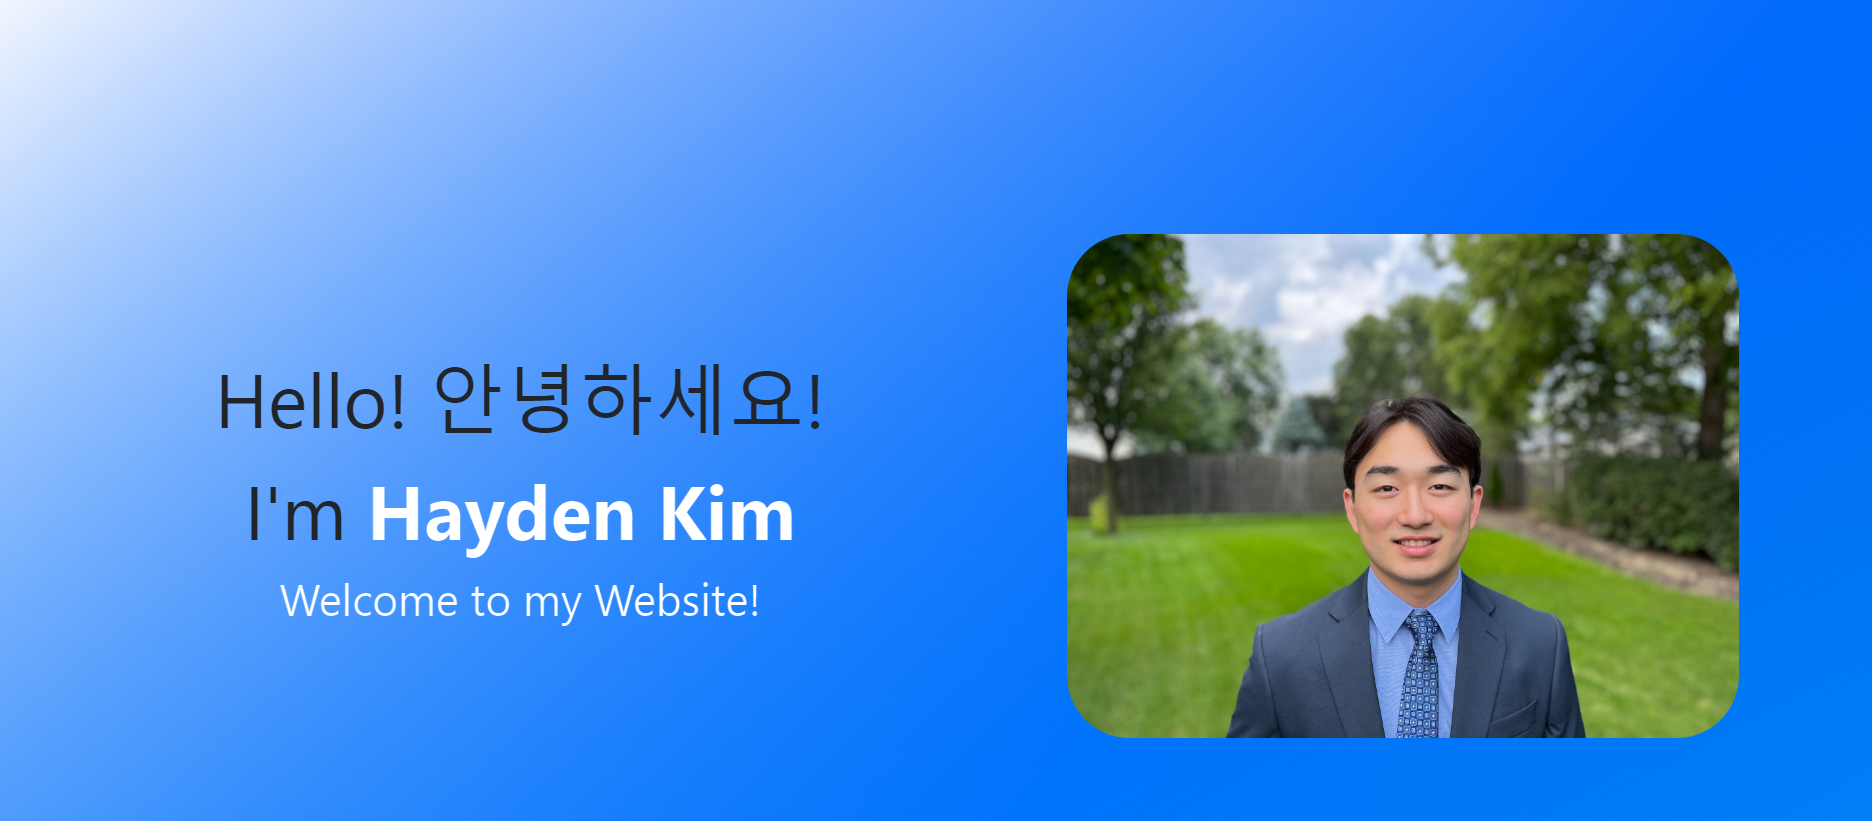
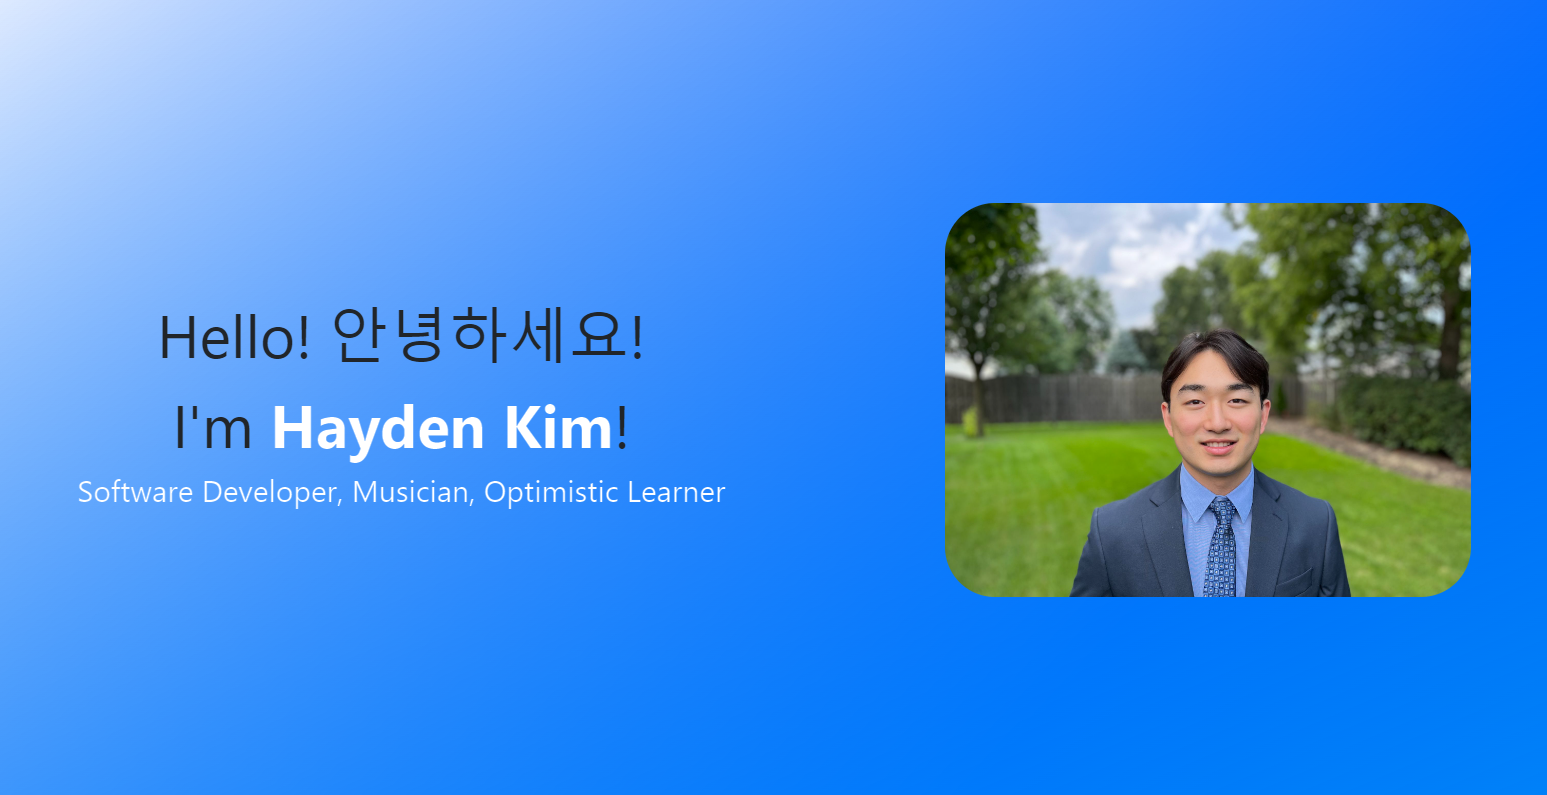
styling updates and summary changes

Changed region(s): [[0.5585, 0.2415, 0.9619, 0.9057], [0.031, 0.3925, 0.4654, 0.6943], [0.1551, 0.6943, 0.4034, 0.7547]]

diff --git a/src/components/home/Home.js b/src/components/home/Home.js
@@ -69,9 +69,10 @@ const Home = () => {
                 <div className="title-text"> Hello! 안녕하세요!</div>
                 <div className="name-container">
                   <span className="im-text"> I'm </span>
-                  <span className="name-text"> Hayden Kim </span>  
+                  <span className="name-text"> Hayden Kim</span>  
+                  <span className="im-text">!</span>  
                 </div>
-                <div className="welcome-text"> Welcome to my Website! </div>
+                <div className="welcome-text"> Software Developer, Musician, Optimistic Learner</div>
                 
               </div>
               
@@ -80,7 +81,6 @@ const Home = () => {
                 <div className="profile-pic-frame">
                   <img className="profile-pic" src={profilePhoto} alt="profile picture"></img>
                 </div>
-                
             </div>
         </div>
         <br/>
@@ -95,7 +95,7 @@ const Home = () => {
               <div className="about-me-summary-container">
                 <div className ="section-title-container">
                     <h1> About Me </h1>
-                    <h6> Who art thou Hayden Kim? </h6>
+                    <h6 className="cursive-text"> "Who art thou Hayden?" </h6>
                 </div>
                 <br/>
                 <br/>
@@ -133,7 +133,7 @@ const Home = () => {
             </div>
             
             <div className="contact-info-container">
-                <div className="contact-item">
+                <div ref={addToElesRef} className="contact-item">
                   <Link to="https://www.linkedin.com/in/hayden-kim-az/">
                     <Image src="/company_images/LI-In-Bug.png" className="image-linkedin-contact" alt="LinkedIn"/>
                   </Link>
@@ -142,7 +142,7 @@ const Home = () => {
                   </div>
                 </div>
                 
-                <div className="contact-item">
+                <div ref={addToElesRef} className="contact-item">
                   <Link to="https://www.linkedin.com/in/hayden-kim-az/">
                     <Image src="/company_images/github-mark-white.png" className="image-contact" alt="LinkedIn"/>
                   </Link>
@@ -151,7 +151,7 @@ const Home = () => {
                   </div>
                 </div>
 
-                <div className="contact-item">
+                <div ref={addToElesRef} className="contact-item">
                   <a href={Pdf}>
                     <Image src={LogoPhoto} href={Pdf} className="image-contact" alt="LinkedIn"/>
                   </a>

diff --git a/src/components/projects/Projects.js b/src/components/projects/Projects.js
@@ -76,17 +76,17 @@ const Projects = () => {
                         </div>
                         <div className="project-description-container">
                             <div>
-                                An application made using React where I that provides information about who I am as well as the the projects I have completed.
+                                An React application that provides information about who I am as well as the projects I have completed.
                             </div>
                             <br/>
                             <div>
-                                Main Components: React
+                                Main Components: React, CSS
                             </div>
                         </div>
                     </div>
                     <div className="project-gif-container">
                         <Link to="https://github.com/HaydenK2/Hayden-Portfolio-Website">
-                            <img className="project-gif" src={PortfolioDemo} alt="Job App Tracker Gif"/>
+                            <img className="portfolio-project-gif" src={PortfolioDemo} alt="Job App Tracker Gif"/>
                         </Link>
                         
                     </div>
@@ -110,7 +110,7 @@ const Projects = () => {
                             </div>
                             <br/>
                             <div>
-                                Main Components: React, SpringBoot, MongoDB, ngrok
+                                Main Components: React, CSS, SpringBoot, MongoDB, ngrok
                             </div>
                         </div>
                     </div>

diff --git a/src/components/home/Home.css b/src/components/home/Home.css
@@ -28,8 +28,6 @@
     100% {bottom: 0px; opacity: 100%}
 }
 
-
-
 .name-container {
     position: relative;
     animation-name: name-appear;
@@ -54,7 +52,7 @@
 }
 
 .welcome-text {
-    font-size: 35px;
+    font-size: 30px;
     background-image: linear-gradient(to bottom, rgb(255, 255, 255), rgb(255, 255, 255));
     color: transparent;
     background-clip: text;
@@ -83,7 +81,7 @@
     position: relative;
     animation-name: picture-appear;
     animation-duration: 1.25s; 
-    width: 650;
+    width: 650px;
 }
 
 .profile-pic {
@@ -105,10 +103,11 @@
     flex-direction: row;
     align-items:center;
     justify-content: space-between;
-    margin:auto;
+    margin-top:-80px;
     padding: 20px;
     width:100%;
     height:400px;    
+    
 }
 
 .contact-item {
@@ -117,6 +116,17 @@
     height: 40%;
     margin: 10%;
     padding: 30px;
+    position: relative;
+    
+}
+
+.contact-item.in-view {
+    animation: contact-item-appear 1s ease;
+}
+
+@keyframes contact-item-appear {
+    0% {top: 50px; opacity: 0%}
+    100% {top: 0px; opacity: 100%}
 }
 
 .image-contact {

diff --git a/src/components/header/Header.js b/src/components/header/Header.js
@@ -19,7 +19,6 @@ const Header = () => {
                         style={{maxHeight: '100px'}}
                     >      
                         <NavLink className="nav-link" to="/"> <img className="logo-image" to="/" src={LogoImage}/> </NavLink>
-                        
                        
                     </Nav>
                     <Nav

diff --git a/src/components/footer/Footer.js b/src/components/footer/Footer.js
@@ -36,7 +36,7 @@ const Footer = () => {
           </div>
           
           <div>
-            Made with React and CSS
+            Website made using React and CSS
           </div>
         </div>
 

diff --git a/src/components/projects/Projects.css b/src/components/projects/Projects.css
@@ -97,6 +97,12 @@
     margin-top:10px;
 }
 
+.portfolio-project-gif {
+    width: 560px;
+    height: 300px;
+    margin-top:10px;
+}
+
 
 .project-image {
     width: 300px;

diff --git a/src/App.css b/src/App.css
@@ -4,6 +4,11 @@
 
 }
 
+.cursive-text {
+  font-family: Brush Script MT, Brush Script Std, cursive;
+  font-style: italic;
+  font-size: 25px;
+}
 
 
 /* .App-logo {
